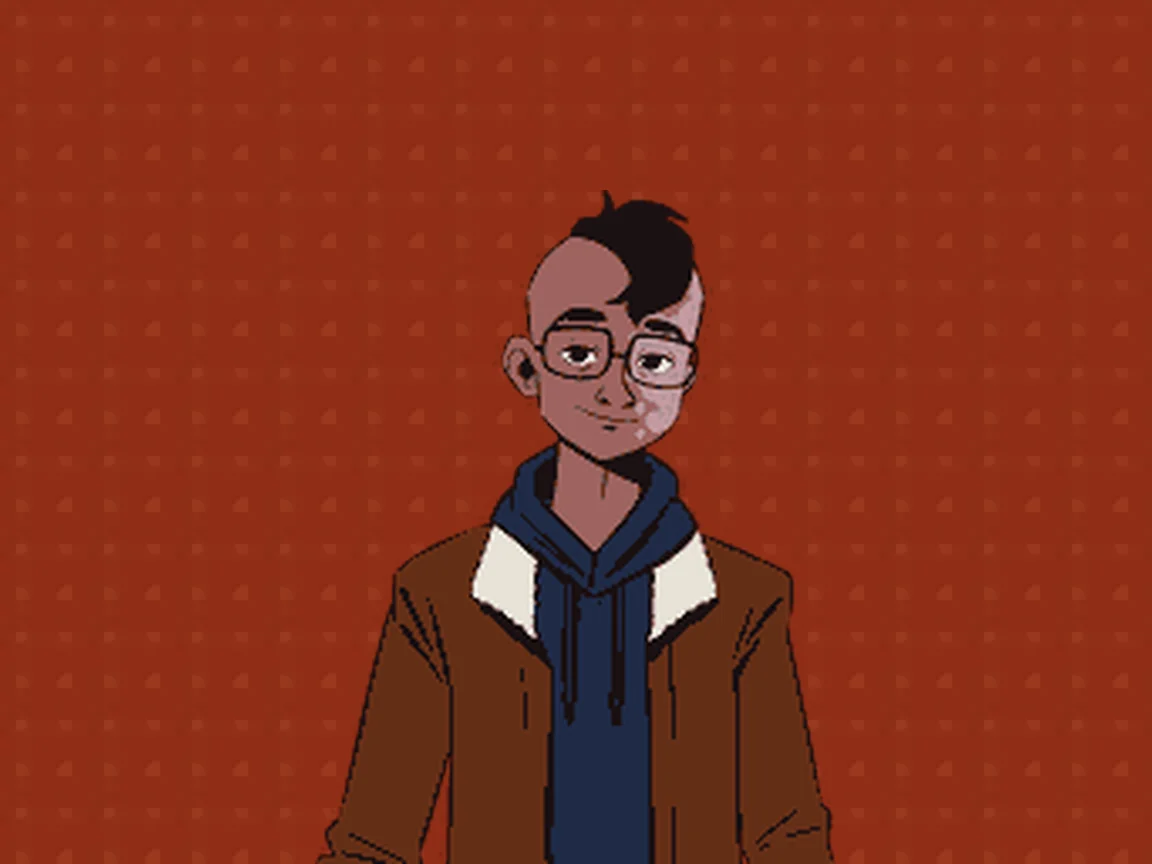
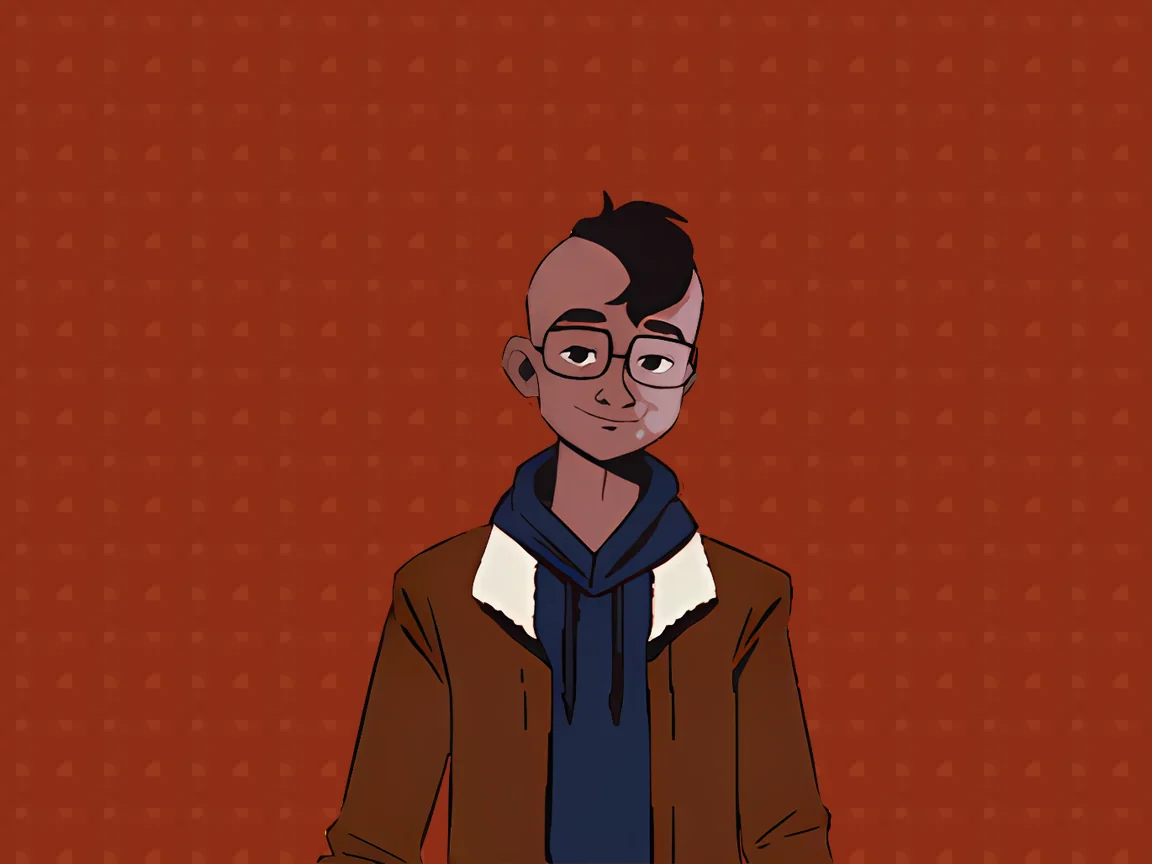
Sharpen Kyle, Dante and Danny (4x anime super-resolution)
Their only art was ~200px tall (same in Figma), so the story poster
Lottie and the cards looked pixelated. Upscaled the sources 4x with
Real-ESRGAN's anime model (new scripts/upscale_character.py), then
rebuilt their Lotties, stills and story cards.

Claude-Session: https://claude.ai/code/session_01NYpfAxBiyh3PoFjjyfGpED

diff --git a/site/story-danny.html b/site/story-danny.html
@@ -102,7 +102,7 @@
         <div class="mliwl-player mliwl-meet" id="player" data-video="oR9LztZi_Yc">
           <div class="mliwl-meet-scene" data-scene="qPROOH2vxxc" style="background-image:url(https://i.ytimg.com/vi/qPROOH2vxxc/mqdefault.jpg)" aria-hidden="true"></div>
           <figure class="mliwl-meet-art">
-            <img class="mliwl-meet-still" src="assets/img/character-danny.webp" width="205" height="232" alt="Danny, a teen with glasses and a shaved side cut, in a brown jacket and navy hoodie">
+            <img class="mliwl-meet-still" src="assets/img/character-danny.webp" width="632" height="792" alt="Danny, a teen with glasses and a shaved side cut, in a brown jacket and navy hoodie">
             <div class="mliwl-meet-lottie" data-lottie="assets/lottie/danny.json" aria-hidden="true"></div>
           </figure>
           <div class="mliwl-meet-text">

diff --git a/site/story-kyle.html b/site/story-kyle.html
@@ -102,7 +102,7 @@
         <div class="mliwl-player mliwl-meet" id="player" data-video="rx3X1VJqEq4">
           <div class="mliwl-meet-scene" data-scene="BVI7TgdnLRo" style="background-image:url(https://i.ytimg.com/vi/BVI7TgdnLRo/mqdefault.jpg)" aria-hidden="true"></div>
           <figure class="mliwl-meet-art">
-            <img class="mliwl-meet-still" src="assets/img/character-kyle.webp" width="175" height="232" alt="Kyle, a teen in a light blue hoodie with a backpack on one shoulder">
+            <img class="mliwl-meet-still" src="assets/img/character-kyle.webp" width="521" height="792" alt="Kyle, a teen in a light blue hoodie with a backpack on one shoulder">
             <div class="mliwl-meet-lottie" data-lottie="assets/lottie/kyle.json" aria-hidden="true"></div>
           </figure>
           <div class="mliwl-meet-text">

diff --git a/site/story-dante.html b/site/story-dante.html
@@ -102,7 +102,7 @@
         <div class="mliwl-player mliwl-meet" id="player" data-video="eH3O9Snp5UI">
           <div class="mliwl-meet-scene" data-scene="63b8BqdvpVc" style="background-image:url(https://i.ytimg.com/vi/63b8BqdvpVc/mqdefault.jpg)" aria-hidden="true"></div>
           <figure class="mliwl-meet-art">
-            <img class="mliwl-meet-still" src="assets/img/character-dante.webp" width="166" height="219" alt="Dante, a teen in a purple jacket over a pink T-shirt">
+            <img class="mliwl-meet-still" src="assets/img/character-dante.webp" width="516" height="778" alt="Dante, a teen in a purple jacket over a pink T-shirt">
             <div class="mliwl-meet-lottie" data-lottie="assets/lottie/dante.json" aria-hidden="true"></div>
           </figure>
           <div class="mliwl-meet-text">

diff --git a/scripts/upscale_character.py b/scripts/upscale_character.py
@@ -1,0 +1,51 @@
+"""Upscale a small character PNG 4x with Real-ESRGAN (anime 6B model), keeping transparency.
+
+Usage: python3 scripts/upscale_character.py <RealESRGAN_x4plus_anime_6B.pth> <in.png> <out.png>
+Needs torch, numpy, Pillow. Model (BSD-3): github.com/xinntao/Real-ESRGAN releases v0.2.2.4.
+Used for Kyle, Dante and Danny, whose only art was ~200px tall. Prefer original art when the client has it.
+"""
+import sys, torch, torch.nn as nn, torch.nn.functional as F, numpy as np
+from PIL import Image
+class RDB(nn.Module):
+    def __init__(s, nf=64, gc=32):
+        super().__init__()
+        s.conv1=nn.Conv2d(nf,gc,3,1,1); s.conv2=nn.Conv2d(nf+gc,gc,3,1,1); s.conv3=nn.Conv2d(nf+2*gc,gc,3,1,1)
+        s.conv4=nn.Conv2d(nf+3*gc,gc,3,1,1); s.conv5=nn.Conv2d(nf+4*gc,nf,3,1,1); s.l=nn.LeakyReLU(0.2,True)
+    def forward(s,x):
+        x1=s.l(s.conv1(x)); x2=s.l(s.conv2(torch.cat((x,x1),1))); x3=s.l(s.conv3(torch.cat((x,x1,x2),1)))
+        x4=s.l(s.conv4(torch.cat((x,x1,x2,x3),1))); x5=s.conv5(torch.cat((x,x1,x2,x3,x4),1)); return x5*0.2+x
+class RRDB(nn.Module):
+    def __init__(s,nf,gc):
+        super().__init__(); s.rdb1=RDB(nf,gc); s.rdb2=RDB(nf,gc); s.rdb3=RDB(nf,gc)
+    def forward(s,x): return s.rdb3(s.rdb2(s.rdb1(x)))*0.2+x
+class Net(nn.Module):
+    def __init__(s,nb=6,nf=64,gc=32):
+        super().__init__()
+        s.conv_first=nn.Conv2d(3,nf,3,1,1); s.body=nn.Sequential(*[RRDB(nf,gc) for _ in range(nb)]); s.conv_body=nn.Conv2d(nf,nf,3,1,1)
+        s.conv_up1=nn.Conv2d(nf,nf,3,1,1); s.conv_up2=nn.Conv2d(nf,nf,3,1,1); s.conv_hr=nn.Conv2d(nf,nf,3,1,1); s.conv_last=nn.Conv2d(nf,3,3,1,1); s.l=nn.LeakyReLU(0.2,True)
+    def forward(s,x):
+        f=s.conv_first(x); f=f+s.conv_body(s.body(f))
+        f=s.l(s.conv_up1(F.interpolate(f,scale_factor=2,mode='nearest'))); f=s.l(s.conv_up2(F.interpolate(f,scale_factor=2,mode='nearest')))
+        return s.conv_last(s.l(s.conv_hr(f)))
+net=Net(); sd=torch.load(sys.argv[1],map_location='cpu'); net.load_state_dict(sd.get('params_ema',sd.get('params',sd))); net.eval()
+def up(rgb):
+    t=torch.from_numpy(np.asarray(rgb,dtype=np.float32)/255).permute(2,0,1)[None]
+    with torch.no_grad(): o=net(t).clamp(0,1)[0].permute(1,2,0).numpy()
+    return Image.fromarray((o*255).round().astype(np.uint8))
+src,dst=sys.argv[2],sys.argv[3]
+im=Image.open(src).convert('RGBA'); im=im.crop(im.getbbox())
+pad=8; big=Image.new('RGBA',(im.width+2*pad,im.height+2*pad),(0,0,0,0)); big.paste(im,(pad,pad))
+a=big.getchannel('A')
+# colour edge pixels into transparent area so edges don't fade to black
+
+from PIL import ImageFilter
+bleed=big.convert('RGB')
+for _ in range(6):
+    m=Image.fromarray((np.asarray(a)>0).astype(np.uint8)*255)
+    grown=bleed.filter(ImageFilter.MaxFilter(3))
+    bleed=Image.composite(bleed,grown,m); a2=a.filter(ImageFilter.MaxFilter(3)); a=a2
+rgb_up=up(bleed)
+al=up(Image.merge('RGB',[big.getchannel('A')]*3)).getchannel('G')
+out=rgb_up.convert('RGBA'); out.putalpha(al)
+out=out.crop(out.getchannel('A').point(lambda v:255 if v>8 else 0).getbbox())
+out.save(dst); print(dst, out.size)
